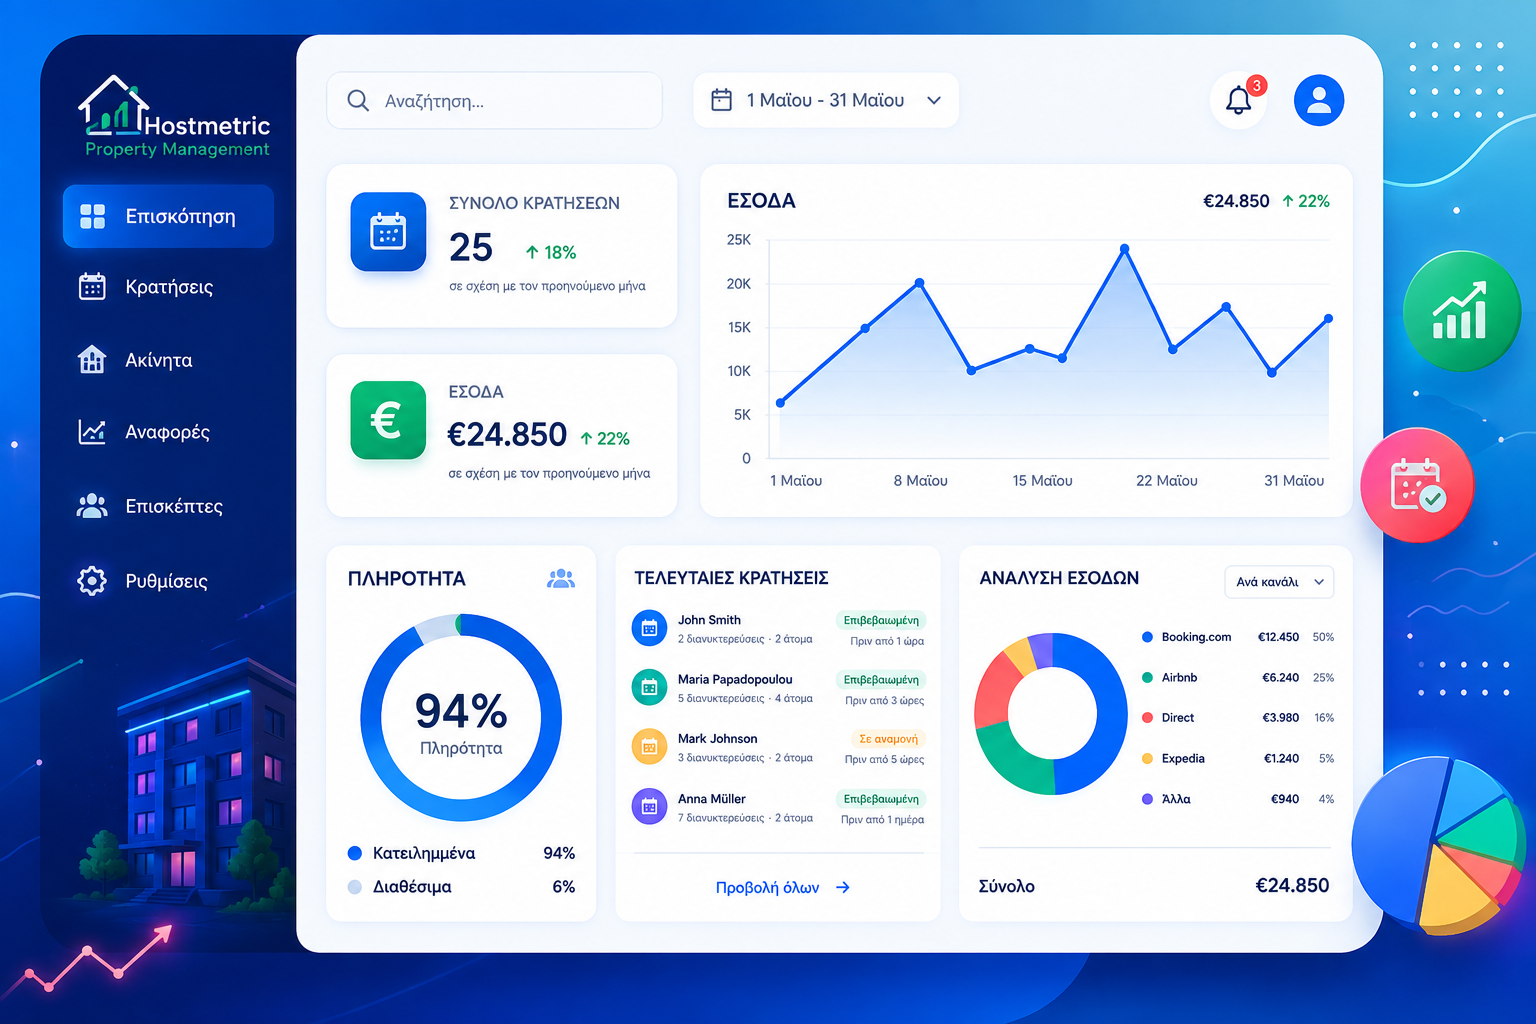
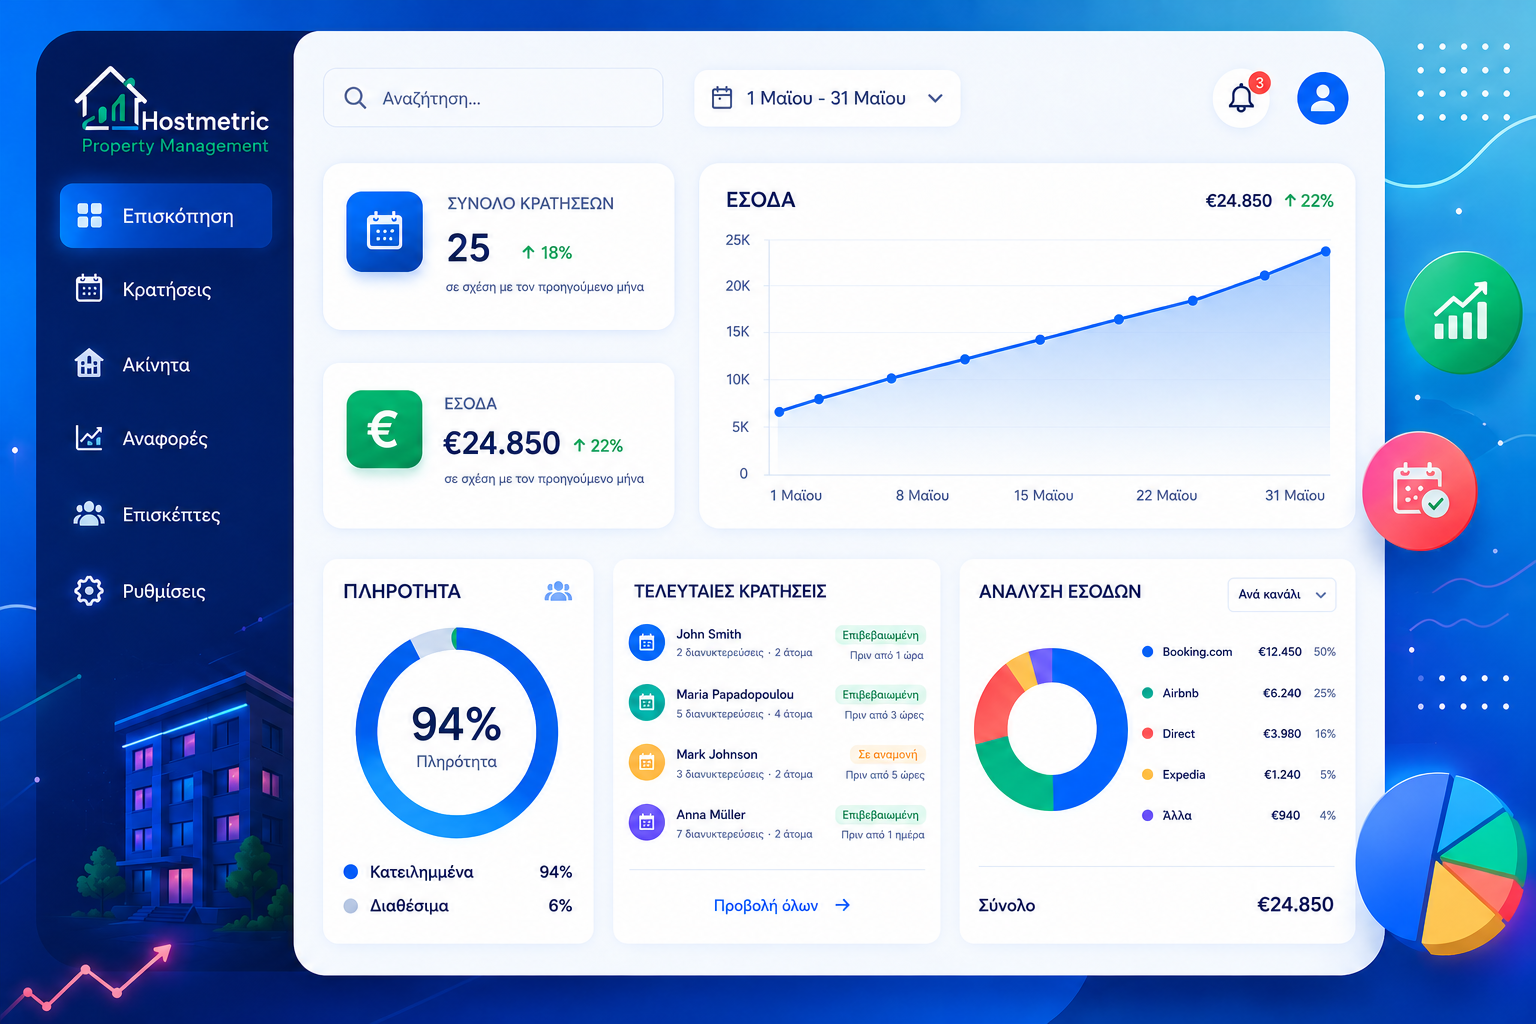
Add Resend email notifications for contact form

diff --git a/src/app/api/contact/route.ts b/src/app/api/contact/route.ts
@@ -1,7 +1,10 @@
 import { NextResponse } from "next/server";
 import { neon } from "@neondatabase/serverless";
+import { Resend } from "resend";
 
 const sql = neon(process.env.DATABASE_URL!);
+
+const resend = new Resend(process.env.RESEND_API_KEY!);
 
 export async function POST(request: Request) {
   try {
@@ -18,6 +21,7 @@ export async function POST(request: Request) {
       consent,
     } = body;
 
+    // Validate required fields
     if (
       !fullName ||
       !country ||
@@ -34,6 +38,7 @@ export async function POST(request: Request) {
       );
     }
 
+    // Save submission to Neon
     const result = await sql`
       INSERT INTO contact_submissions (
         full_name,
@@ -58,10 +63,75 @@ export async function POST(request: Request) {
       RETURNING id, created_at;
     `;
 
+    // Send notification email to HostMetric
+    const { error: emailError } = await resend.emails.send({
+      from: "HostMetric Website <notifications@hostmetric.gr>",
+
+      to: ["info@hostmetric.gr"],
+
+      replyTo: email,
+
+      subject: `Νέο αίτημα από ${fullName}`,
+
+      html: `
+        <div style="font-family: Arial, sans-serif; max-width: 650px; margin: 0 auto;">
+          
+          <h2>Νέο αίτημα μέσω HostMetric</h2>
+
+          <p>
+            Υποβλήθηκε νέο αίτημα μέσω της φόρμας επικοινωνίας του hostmetric.gr.
+          </p>
+
+          <hr />
+
+          <p><strong>Ονοματεπώνυμο:</strong> ${fullName}</p>
+
+          <p><strong>Χώρα ακινήτου:</strong> ${country}</p>
+
+          <p>
+            <strong>Τύπος ακινήτου:</strong>
+            ${propertyType || "Δεν δηλώθηκε"}
+          </p>
+
+          <p><strong>Email:</strong> ${email}</p>
+
+          <p>
+            <strong>Τηλέφωνο:</strong>
+            ${phone || "Δεν δηλώθηκε"}
+          </p>
+
+          <p>
+            <strong>Πόλη / Περιοχή:</strong>
+            ${cityArea || "Δεν δηλώθηκε"}
+          </p>
+
+          <hr />
+
+          <p><strong>Μήνυμα:</strong></p>
+
+          <p style="white-space: pre-wrap;">
+            ${message}
+          </p>
+
+          <hr />
+
+          <p style="font-size: 12px; color: #777;">
+            Submission ID: ${result[0].id}
+          </p>
+
+        </div>
+      `,
+    });
+
+    if (emailError) {
+      console.error("Resend notification error:", emailError);
+    }
+
     return NextResponse.json(
       {
         success: true,
         submission: result[0],
+        emailNotificationSent: !emailError,
       },
       { status: 201 }
     );
@@ -71,7 +141,7 @@ export async function POST(request: Request) {
     return NextResponse.json(
       {
         success: false,
-        error: "Something went wrong while saving the submission.",
+        error: "Something went wrong while processing the submission.",
       },
       { status: 500 }
     );

diff --git a/src/app/faq/page.tsx b/src/app/faq/page.tsx
@@ -263,7 +263,7 @@ export default async function FAQPage() {
               </p>
 
 
-              <div className="mt-10">
+              <div className="mt-10 [&_button]:!bg-[#2166f3] [&_button]:!text-white [&_button_*]:!text-white">
 
                 <FAQAccordion
                   items={
@@ -297,7 +297,7 @@ export default async function FAQPage() {
               </p>
 
 
-              <div className="mt-10">
+              <div className="mt-10 [&_button]:!bg-[#2166f3] [&_button]:!text-white [&_button_*]:!text-white">
 
                 <FAQAccordion
                   items={
